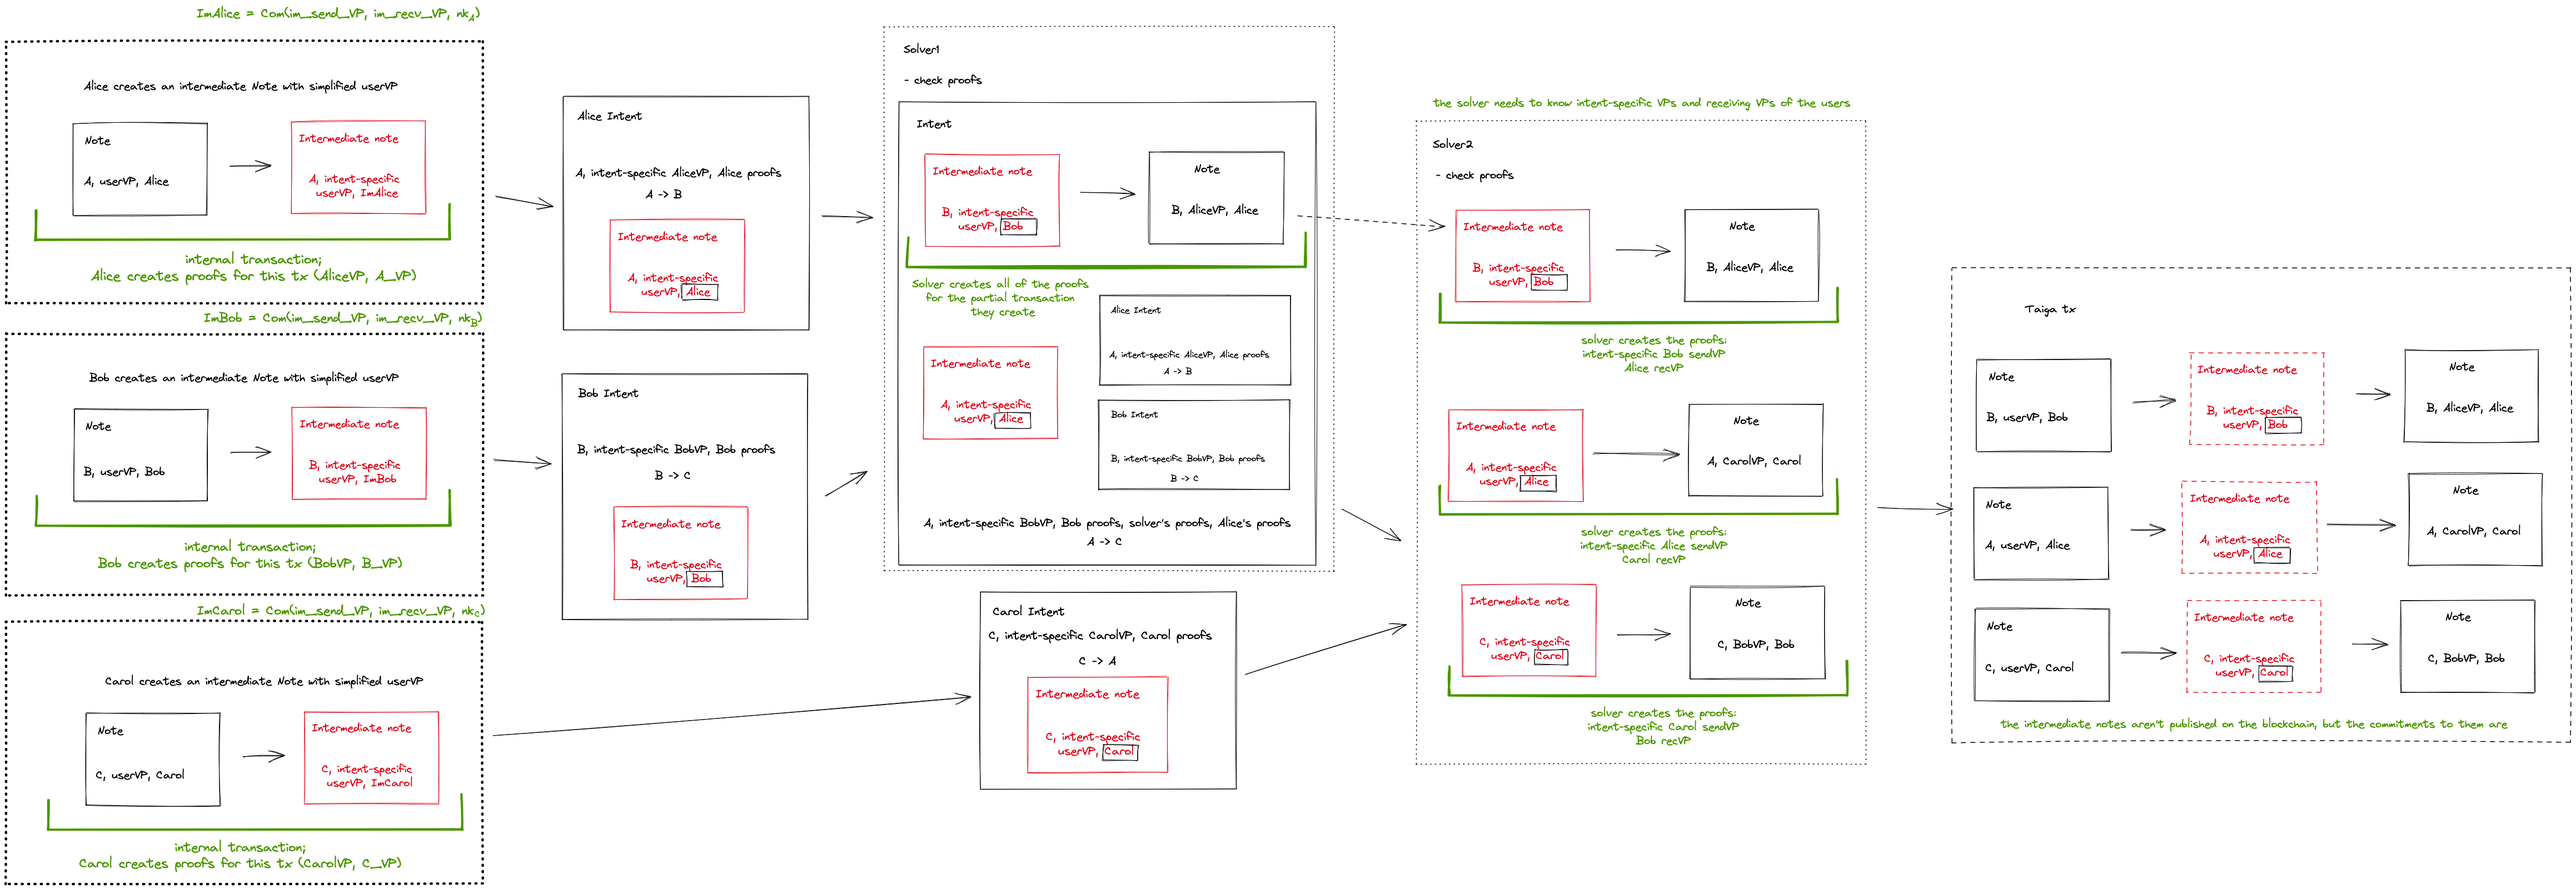
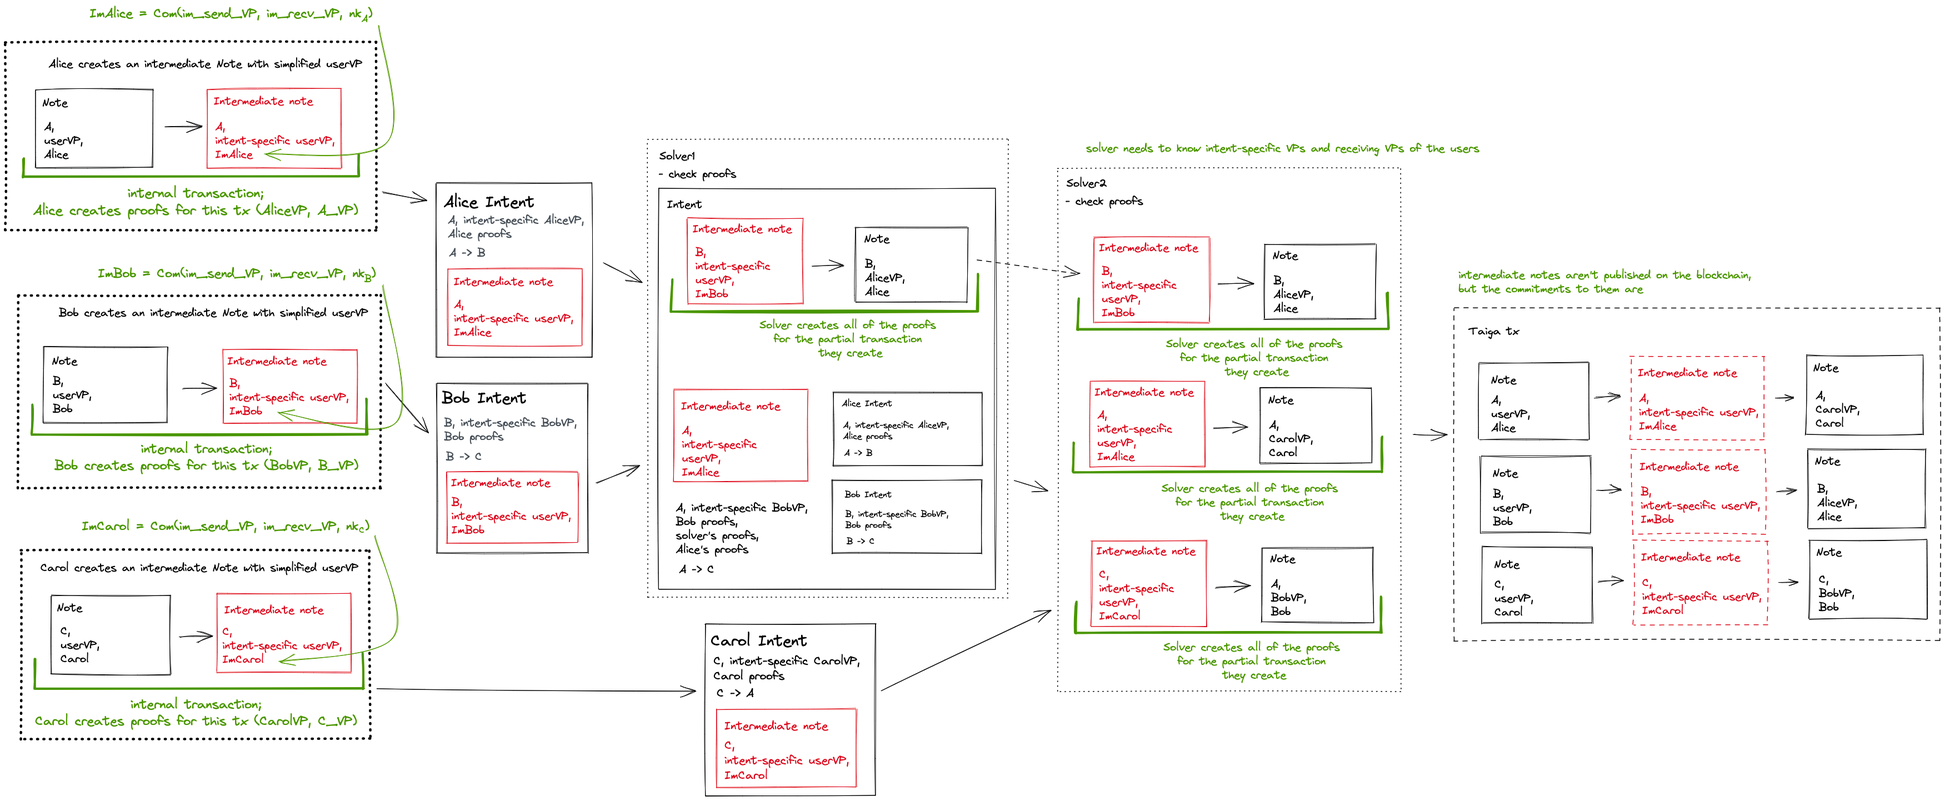
Describe the example and update the diagram

diff --git a/book/src/exec.md b/book/src/exec.md
@@ -41,4 +41,15 @@ Note: partial transactions cannot be published on the blockchain as there will b
 After the intents are matched with satsfaction of all of the involved parties, the transaction is published on the blockchain. The intermediate notes themself are not published, but the local CMTree is, as well as all of the proofs created (including the proofs for the intermediate notes).
 
 ### Example with 3-party bartering cycle
+
+On the example below Alice, Bob, and Carol want to exchange some assets. 
+
+1. All three of them create intermediate notes with VPs that make sure the requirements are satisfied, and publish intents. 
+
+2. The first solver matches two intents and produces partial tx and a new intent. 
+
+3. The second solver finds a match for the intents left to match and produces the final transaction. 
+
+Intermediate notes aren't published, but intermediate notes and commitments are.
+
 ![img.png](img/exec_img.png)
